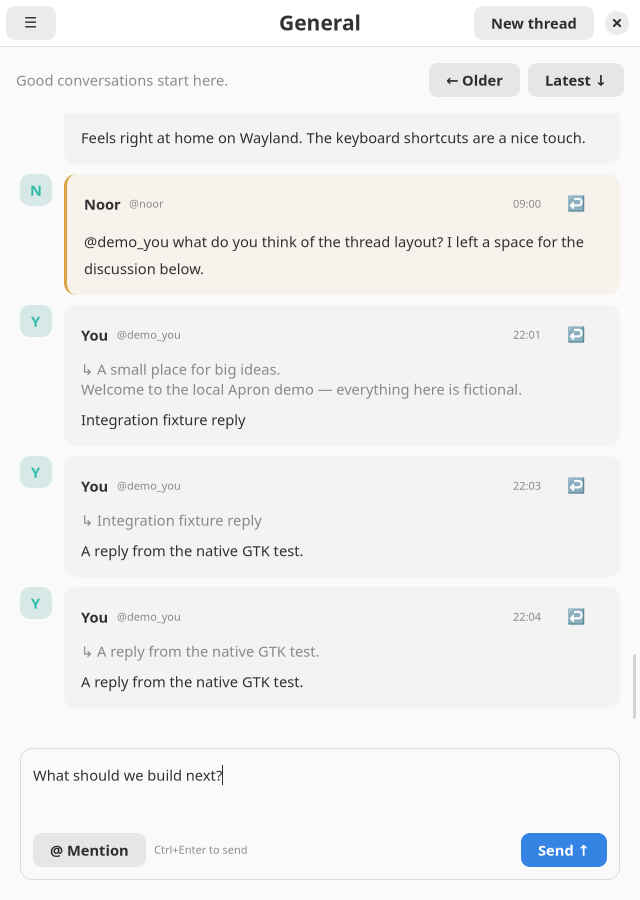
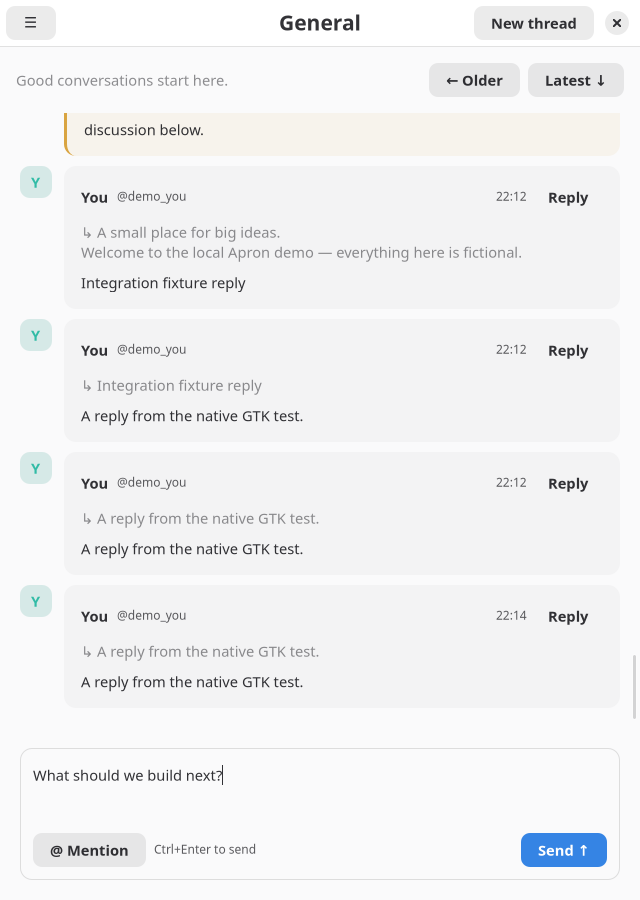
Verify official Go interoperability and measure native client performance

diff --git a/apron_native/style.css b/apron_native/style.css
@@ -12,7 +12,8 @@ window { background: @window_bg_color; }
 .author { font-weight: 700; }
 .avatar { min-width: 32px; min-height: 32px; border-radius: 10px; background: alpha(#0c8875, 0.15); color: #31bba6; font-weight: 800; }
 .message-body { line-height: 1.35; }
-.metadata { font-size: 11px; opacity: 0.55; }
+.metadata { font-size: 12px; opacity: 0.8; }
+.reply-button { min-height: 32px; min-width: 48px; padding: 2px 10px; }
 .composer { border: 1px solid alpha(@window_fg_color, 0.15); border-radius: 12px; padding: 12px; }
 .composer textview, .composer textview text { background: transparent; }
 .connection { font-size: 12px; }

diff --git a/tests/reference_interop.py b/tests/reference_interop.py
@@ -1,0 +1,78 @@
+"""Actual native libsoup session against the official Go server on loopback.
+Run an isolated --store memory server at 127.0.0.1:18766 first.
+"""
+import time
+import unittest
+from gi.repository import GLib
+from apron_native.session import Session
+
+
+class OfficialGoInterop(unittest.TestCase):
+    def setUp(self):
+        self.s = Session()
+        self.s.connect('ws://127.0.0.1:18766/ws', 'Native integration test')
+        self.wait(lambda: self.s.ready and 'general' in self.s.store.rooms)
+
+    def tearDown(self):
+        self.s.disconnect()
+
+    def wait(self, predicate, seconds=10):
+        ctx = GLib.MainContext.default()
+        end = time.monotonic() + seconds
+        while time.monotonic() < end:
+            while ctx.pending(): ctx.iteration(False)
+            if predicate(): return
+            time.sleep(.002)
+        self.fail(self.s.state + ': ' + self.s.error)
+
+    def request(self, method, params):
+        answer = []
+        self.s.request(method, params, lambda *args: answer.append(args))
+        self.wait(lambda: bool(answer))
+        self.assertIsNone(answer[0][1], answer[0][1])
+        return answer[0][0]
+
+    def test_connect_list_history_send_reply_thread_and_reconnect(self):
+        s = self.s
+        self.assertEqual(s.server['agent'], 'apron-go/8')
+        self.assertIn('history', s.caps)
+        listing = self.request('room_list', {'filter': 'joined', 'members': True})
+        self.assertTrue(any(r['room_id'] == 'general' for r in listing['joined']))
+        first = self.request('message', {'room_id': 'general', 'body': {'text': 'Synthetic native interop message'}})
+        mid = first['message_id']
+        self.assertIn(mid, s.store.messages)
+        reply = self.request('message', {'room_id': 'general', 'reply_to': {'message_id': mid},
+                                        'body': {'text': 'Synthetic native interop reply', 'mentions': [s.store.you['user_id']]}})
+        self.assertEqual(s.store.messages[reply['message_id']]['reply_to']['message_id'], mid)
+        thread = self.request('room_set', {'parent_room_id': 'general', 'title': 'Synthetic native interop thread'})
+        rid = thread['room_id']
+        self.assertEqual(s.store.rooms[rid]['parent_room_id'], 'general')
+        self.request('message', {'room_id': rid, 'body': {'text': 'Synthetic thread message'}})
+        pages = []
+        s.history(rid, callback=lambda *a: pages.append(a))
+        self.wait(lambda: bool(pages))
+        self.assertIsNone(pages[0][1])
+        self.assertTrue(s.store.timeline(rid))
+        # Enough records to require a second backward page.
+        for i in range(65):
+            self.request('message', {'room_id': 'general', 'body': {'text': f'Synthetic pagination record {i}'}})
+        pages = []
+        s.history('general', callback=lambda *a: pages.append(a))
+        self.wait(lambda: len(pages) == 1)
+        self.assertIsNotNone(pages[0][2])
+        s.history('general', pages[0][2], callback=lambda *a: pages.append(a))
+        self.wait(lambda: len(pages) == 2)
+        self.assertLess(int(pages[1][0]['last_log_id']), int(pages[0][0]['first_log_id']))
+        generation = s.generation
+        s.ws.close(1000, 'Synthetic reconnect test')
+        self.wait(lambda: s.generation > generation and s.ready)
+        self.wait(lambda: 'general' in s.store.rooms)
+        # Reference guest policy may assign a new identity; do not assert token resume.
+        pages = []
+        s.history('general', callback=lambda *a: pages.append(a))
+        self.wait(lambda: bool(pages))
+        self.assertIsNone(pages[0][1])
+        self.assertTrue(any('Synthetic pagination' in m.get('body', {}).get('text', '') for m in s.store.timeline('general')))
+
+
+if __name__ == '__main__': unittest.main(verbosity=2)

diff --git a/tests/benchmark_ui.py b/tests/benchmark_ui.py
@@ -1,0 +1,87 @@
+"""Small repeatable GTK/Wayland measurement, not a production benchmark."""
+import argparse
+import json
+import os
+import resource
+import time
+from gi.repository import GLib
+from apron_native.app import App
+
+room = os.environ['APRON_BENCH_ROOM']
+app = App(argparse.Namespace(demo=False, server='ws://127.0.0.1:18766/ws', screenshot=None))
+app.register(None)
+start = time.monotonic()
+app.activate()
+win = app.get_active_window()
+ctx = GLib.MainContext.default()
+intervals = []
+last = time.monotonic()
+
+
+def beat():
+    global last
+    now = time.monotonic(); intervals.append(now - last); last = now
+    return True
+
+
+def wait(predicate, timeout=15):
+    end = time.monotonic() + timeout
+    while time.monotonic() < end:
+        while ctx.pending(): ctx.iteration(False)
+        if predicate(): return
+        time.sleep(.001)
+    raise AssertionError('Benchmark timeout: ' + win.session.error)
+
+
+def pause(seconds):
+    end = time.monotonic() + seconds
+    wait(lambda: time.monotonic() >= end, seconds + 2)
+
+
+def rss():
+    for line in open('/proc/self/status'):
+        if line.startswith('VmRSS:'): return int(line.split()[1]) / 1024
+
+
+wait(lambda: win.session.ready and win.room_id == 'general' and not win.loading and bool(win.visible_messages()))
+startup_ms = (time.monotonic() - start) * 1000
+beat_timer = GLib.timeout_add(10, beat)
+t0 = time.monotonic()
+win.select_room(room)
+wait(lambda: not win.loading and bool(win.visible_messages()))
+pause(.1)
+first_page_ms = (time.monotonic() - t0) * 1000 - 100
+page_times = []
+for _ in range(10):
+    t0 = time.monotonic()
+    win.load_older()
+    wait(lambda: not win.loading)
+    pause(.05)
+    page_times.append((time.monotonic() - t0) * 1000 - 50)
+max_heartbeat_ms = max(intervals) * 1000
+# Idle measurement uses GLib's blocking main loop, not this test's polling helper.
+pause(.2)
+GLib.source_remove(beat_timer)
+idle_loop = GLib.MainLoop()
+wall0, cpu0 = time.monotonic(), time.process_time()
+GLib.timeout_add_seconds(10, lambda: (idle_loop.quit(), False)[1])
+idle_loop.run()
+wall, cpu = time.monotonic() - wall0, time.process_time() - cpu0
+result = {
+ 'display': win.get_display().get_name(), 'startup_to_first_history_ms': round(startup_ms, 1),
+ 'seed_messages': 1000, 'seed_text_bytes_each': 1045,
+ 'benchmark_room_latest_page_ms': round(first_page_ms, 1),
+ 'older_page_ms': [round(t, 1) for t in page_times],
+ 'max_10ms_heartbeat_interval_during_load_ms': round(max_heartbeat_ms, 1),
+ 'idle_seconds': round(wall, 3), 'idle_cpu_seconds': round(cpu, 4),
+ 'idle_percent_one_core': round(cpu / wall * 100, 3),
+ 'rss_mib': round(rss(), 1), 'peak_rss_mib': round(resource.getrusage(resource.RUSAGE_SELF).ru_maxrss / 1024, 1),
+ 'cached_messages': len(win.session.store.messages), 'cached_message_bytes': win.session.store.cache_bytes,
+ 'rendered_messages': len(win.visible_messages())
+}
+from pathlib import Path
+output = Path(__file__).resolve().parents[1] / 'artifacts' / 'benchmark.json'
+output.parent.mkdir(exist_ok=True)
+output.write_text(json.dumps(result, indent=2) + '\n')
+print(json.dumps(result, indent=2), flush=True)
+win.close()

diff --git a/apron_native/app.py b/apron_native/app.py
@@ -69,7 +69,9 @@ class Window(Adw.ApplicationWindow):
         self.add_breakpoint(breakpoint)
         self.split.bind_property('collapsed', self.nav, 'visible', 2)
         self.present()
-        if options.demo:
+        if getattr(options, 'server', None):
+            self.session.connect(options.server, 'You')
+        elif options.demo:
             self.session.connect('ws://127.0.0.1:18765', 'You')
         else:
             GLib.idle_add(self.connect_dialog)
@@ -256,7 +258,8 @@ class Window(Adw.ApplicationWindow):
 
     def render_messages(self):
         messages = self.visible_messages()
-        signature = repr((messages, self.session.store.users, self.room_id, self.loading))
+        # A loading-state transition must not rebuild an unchanged nonempty page.
+        signature = repr((messages, self.session.store.users, self.room_id, self.loading if not messages else False))
         if signature == self.message_signature:
             return
         self.message_signature = signature
@@ -299,7 +302,8 @@ class Window(Adw.ApplicationWindow):
             stamp = ''
         top.append(label(stamp, 'metadata'))
         if not msg.get('deleted'):
-            reply = button('↩', lambda: self.set_reply(msg), 'flat')
+            reply = button('Reply', lambda: self.set_reply(msg), 'flat')
+            reply.add_css_class('reply-button')
             reply.set_tooltip_text('Reply to ' + name)
             top.append(reply)
         card.append(top)
@@ -562,7 +566,9 @@ class App(Adw.Application):
 
 def main():
     parser = argparse.ArgumentParser(description='Native Apron client')
-    parser.add_argument('--demo', action='store_true', help='Connect only to the local fixture at 127.0.0.1:18765')
+    connection = parser.add_mutually_exclusive_group()
+    connection.add_argument('--server', help='Connect as a guest to this ws(s) URL')
+    connection.add_argument('--demo', action='store_true', help='Connect only to the local fixture at 127.0.0.1:18765')
     parser.add_argument('--screenshot', help='Save a GTK-rendered PNG after startup (testing only)')
     args = parser.parse_args()
     return App(args).run([sys.argv[0]])

diff --git a/scripts/seed_reference.py b/scripts/seed_reference.py
@@ -1,0 +1,29 @@
+#!/usr/bin/env python3
+"""Seed only the dedicated loopback Go test server; never a supplied URL."""
+import asyncio
+import json
+import websockets
+
+
+async def main():
+    async with websockets.connect('ws://127.0.0.1:18766/ws') as ws:
+        await ws.recv()
+        serial = 0
+        async def request(method, params):
+            nonlocal serial
+            serial += 1; rid = str(serial)
+            await ws.send(json.dumps({'method': method, 'params': params, 'id': rid}))
+            while True:
+                frame = json.loads(await ws.recv())
+                if frame.get('id') == rid:
+                    if 'error' in frame: raise RuntimeError(frame['error'])
+                    return frame['result']
+        await request('auth', {'scheme': 'guest', 'name': 'Synthetic benchmark author'})
+        room = await request('room_set', {'title': 'Synthetic history benchmark'})
+        text = 'Synthetic benchmark text. ' * 40
+        for i in range(1000):
+            await request('message', {'room_id': room['room_id'], 'body': {'text': f'{i:04d} {text}'}})
+        print(json.dumps({'room_id': room['room_id'], 'messages': 1000, 'text_bytes_each': len(text.encode()) + 5}))
+
+
+if __name__ == '__main__': asyncio.run(main())

diff --git a/TEST_RESULTS.md b/TEST_RESULTS.md
@@ -19,6 +19,20 @@ server, credentials, bot state, or real chat content was used.
 - Screenshots captured through GTK's renderer on a Wayland display and visually
   inspected: `docs/preview.png`, `docs/preview-compact.png`. Sidebar is visible
   at desktop width and collapses at compact width. Composer remains available.
+- Official Go reference interoperability: **1 end-to-end test passed**, separate
+  from the 4 fixture tests above. Built the unchanged saved official checkout
+  `067083815be6b113e7d35f6569fa35dee0052fd5` with Go 1.27.1. The server identified
+  as `apron-go/8` and ran only at `127.0.0.1:18766/ws`, with `--store memory`,
+  a dedicated temporary upload directory, and synthetic data. Tested guest
+  connection/auth, listing, sending/broadcast-before-confirmation, a reply with
+  an explicit mention, thread creation and thread history, backward pagination
+  over 65 posts, client-initiated disconnect, automatic reconnect, and reloading
+  message history. No application compatibility defect was found in these flows.
+  The Go guest policy can assign a fresh identity on reconnect: this is **not**
+  evidence of official-server token-resume interoperability.
+- After enlarging/darkening metadata and replacing the reply glyph with a
+  labeled button, all 15 fixture/unit tests and both GTK sizes passed again.
+  The compact GTK workflow passed again after the redundant-render optimization.
 - Python wheel built successfully with `pip wheel --no-deps .`.
 
 Test libraries: Python 3.13 (system interpreter), GTK 4.18.6,
@@ -47,11 +61,50 @@ headless Weston output at 640×900. Weston used `--backend=headless
 ## Not run / remaining validation
 
 - Nix flake evaluation/build (Nix is not installed here); niri-specific launch.
-- A full reference-server conformance suite or a live Go Apron server. Tests
-  used a realistic wire fixture with actual WebSockets, not production services.
+- The full reference-server conformance suite, official-server token auth/resume,
+  and server-process-restart recovery. Official guest flows above were tested;
+  fixture token tests remain distinct.
 - Real TLS endpoints, passkeys/email, long-duration load/soak, accessibility
   assistive-technology audit, and hardware/GPU-specific scaling.
 
 The project is an early usable vertical slice. See README limitations for
 incomplete recovery and optional protocol features; passing these focused tests
 does not establish full protocol conformance.
+
+## Synthetic efficiency measurement
+
+Actual GTK widgets on headless Weston, 1280×900, Cairo software rendering;
+libsoup connected to the official Go server above. Seeded a separate public
+room with 1,000 synthetic messages, each with 1,045 UTF-8 text bytes. Opened the
+room's latest 50-record page, then 10 older pages. The server's record limit
+includes membership changes, so it need not return exactly 50 messages.
+
+After the quality-pass optimization:
+
+| Measurement | Observed |
+|---|---:|
+| Startup to initial room history | 137.9 ms |
+| Benchmark-room latest page | 524.0 ms |
+| 10 older pages, minimum / median / maximum | 501.3 / 545.8 / 779.5 ms |
+| Worst 10-ms heartbeat interval during loading | 735.4 ms |
+| Idle wall / process CPU | 9.911 s / 0.0015 s |
+| Idle CPU, percentage of one core | 0.016% |
+| Client RSS / peak RSS | 75.6 / 76.2 MiB |
+| Cached messages / serialized bytes | 587 / 678,989 |
+| Rendered messages | 50 |
+
+Timings include history handling, widget updates, and draining the GTK main
+context; explicit 50/100-ms settling pauses are subtracted. The heartbeat is a
+10-ms GLib timer removed before idle measurement. Idle uses GLib's blocking
+main loop, process CPU time, and `/proc/self/status` RSS; the measurement does
+not count the server or compositor. Raw data: `docs/benchmark.json` and
+`docs/benchmark-before.json`. Harness: `tests/benchmark_ui.py`; synthetic seed:
+`scripts/seed_reference.py`.
+
+Before removing the redundant nonempty-page rebuild when loading begins,
+older pages took 988–1,362 ms and worst heartbeat interval was 738.7 ms.
+The optimization improved total page-load time, but **did not eliminate long
+main-thread stalls**. Long-message pages still require row virtualization or
+incremental layout. This is one warm local sample, not a throughput or soak
+benchmark, and it cannot establish comparative efficiency against Rust,
+apron-web, hardware-accelerated rendering, or real niri sessions.

diff --git a/README.md b/README.md
@@ -130,6 +130,23 @@ bounded and control/bidi override characters are removed for display.
 - Valid TLS certificates are required; there is no “ignore certificate errors”
   switch. No SSH transport, proxy configuration UI, or background tray mode.
 
+## Measured performance
+
+On the Debian workspace under headless Weston with software rendering, a
+1,000-message official-server room (1,045 text bytes/message) showed **75.6 MiB
+RSS** after loading 11 pages, and **0.016% of one CPU core** over a 9.911-second
+idle sample. The latest benchmark page took 524 ms; ten older pages took
+501–780 ms (median 546 ms). Only 50 messages were rendered, with 587 messages
+and about 663 KiB of serialized data cached across rooms.
+
+These are one-run warm-loopback measurements, not hardware-independent targets.
+They exclude server/compositor CPU and memory. Idle behavior is encouraging,
+but long-message pages still caused a **735 ms worst event-loop interval**:
+row virtualization/incremental layout is needed before calling heavy-history
+interaction consistently responsive. Avoiding an unnecessary loading-state
+rebuild roughly halved page-load time in this synthetic test. See TEST_RESULTS
+and the included raw measurements for method and caveats.
+
 ## Verification
 
 Start the **local fixture only**, then run:
@@ -144,6 +161,25 @@ The fixture binds only `127.0.0.1:18765`, uses fictional people/messages, keeps
 state in memory, and is a test harness rather than a deployable server. Its
 `/test-denied` and `/test-disconnect` message texts deliberately exercise errors.
 Do not expose it to a network or use it with real data.
+
+The official Go reference server was also built and tested separately on
+loopback with synthetic data and `--store memory`; connect/list/history/send/
+reply/thread/reconnect passed. Reproduce using an isolated official server:
+
+```sh
+# Build apron-server-go, then run its binary in a dedicated test directory:
+aprond --store memory --addr 127.0.0.1:18766 --messages-per-minute 10000 \
+  --upload.dir ./test-uploads
+# From this client, in its Python/native development environment:
+python tests/reference_interop.py
+python scripts/seed_reference.py > /tmp/apron-benchmark-seed.json
+APRON_BENCH_ROOM=$(python -c 'import json; print(json.load(open("/tmp/apron-benchmark-seed.json"))["room_id"])') \
+  GDK_BACKEND=wayland python tests/benchmark_ui.py
+```
+
+These scripts hard-code the dedicated loopback test endpoint. `--server
+ws://127.0.0.1:18766/ws` also opens it in the client as a guest. Never point
+these tests at a server with real content.
 
 See [TEST_RESULTS.md](TEST_RESULTS.md) for actual checks, versions, commands,
 and unrun checks. Screenshots show actual GTK rendering under headless Weston,
